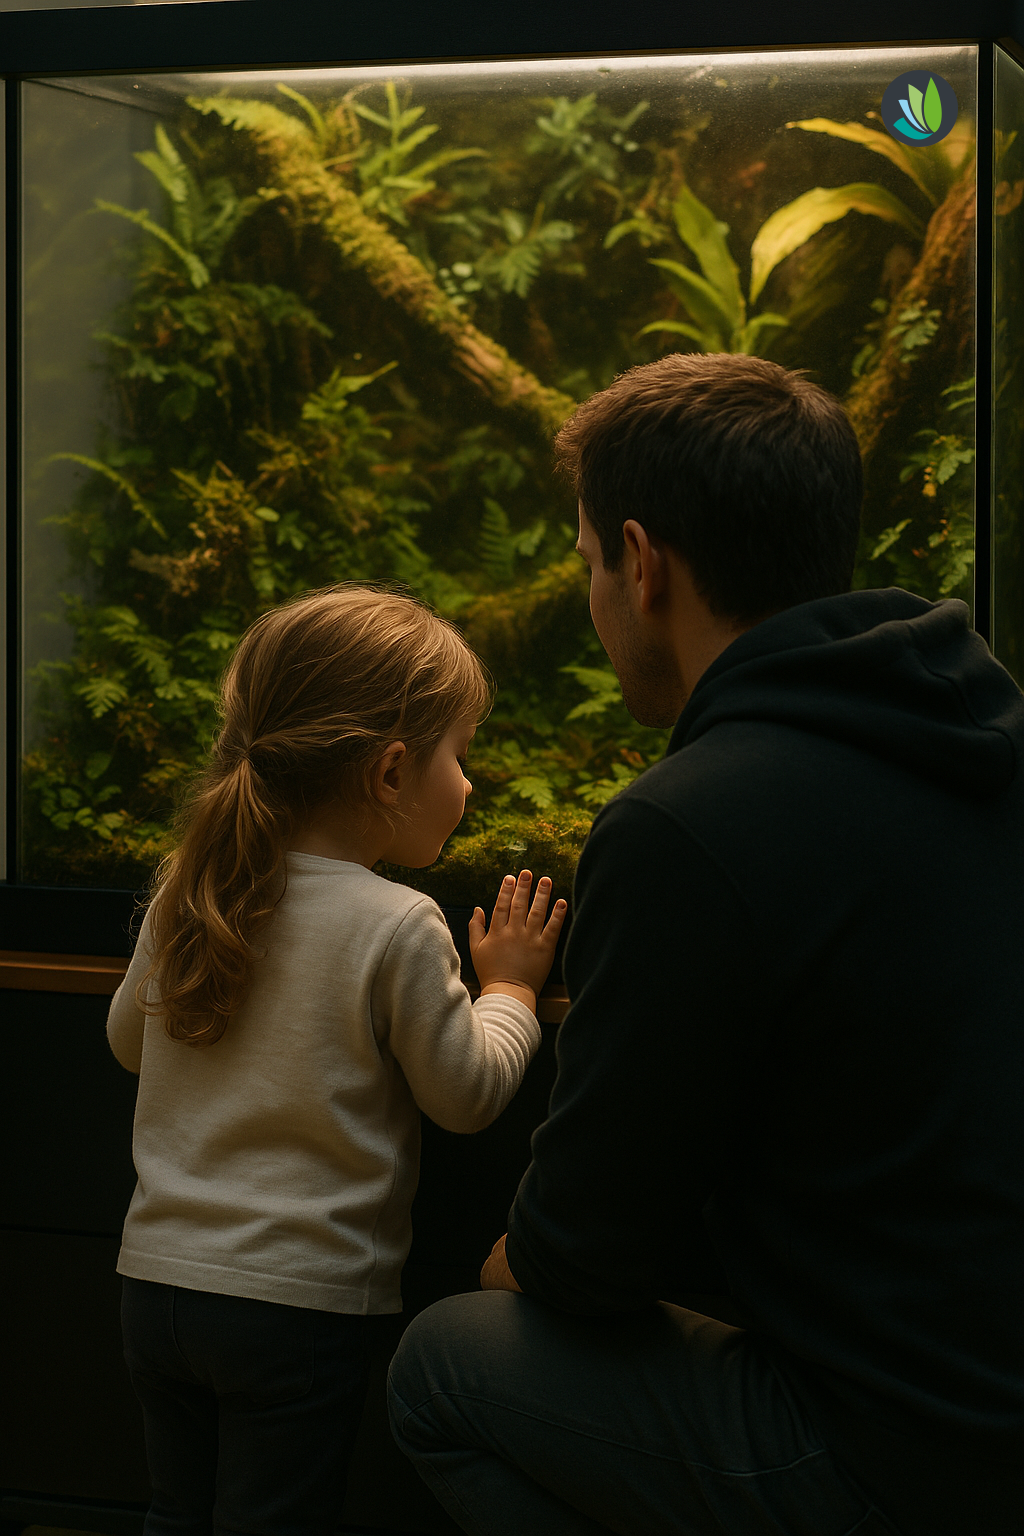
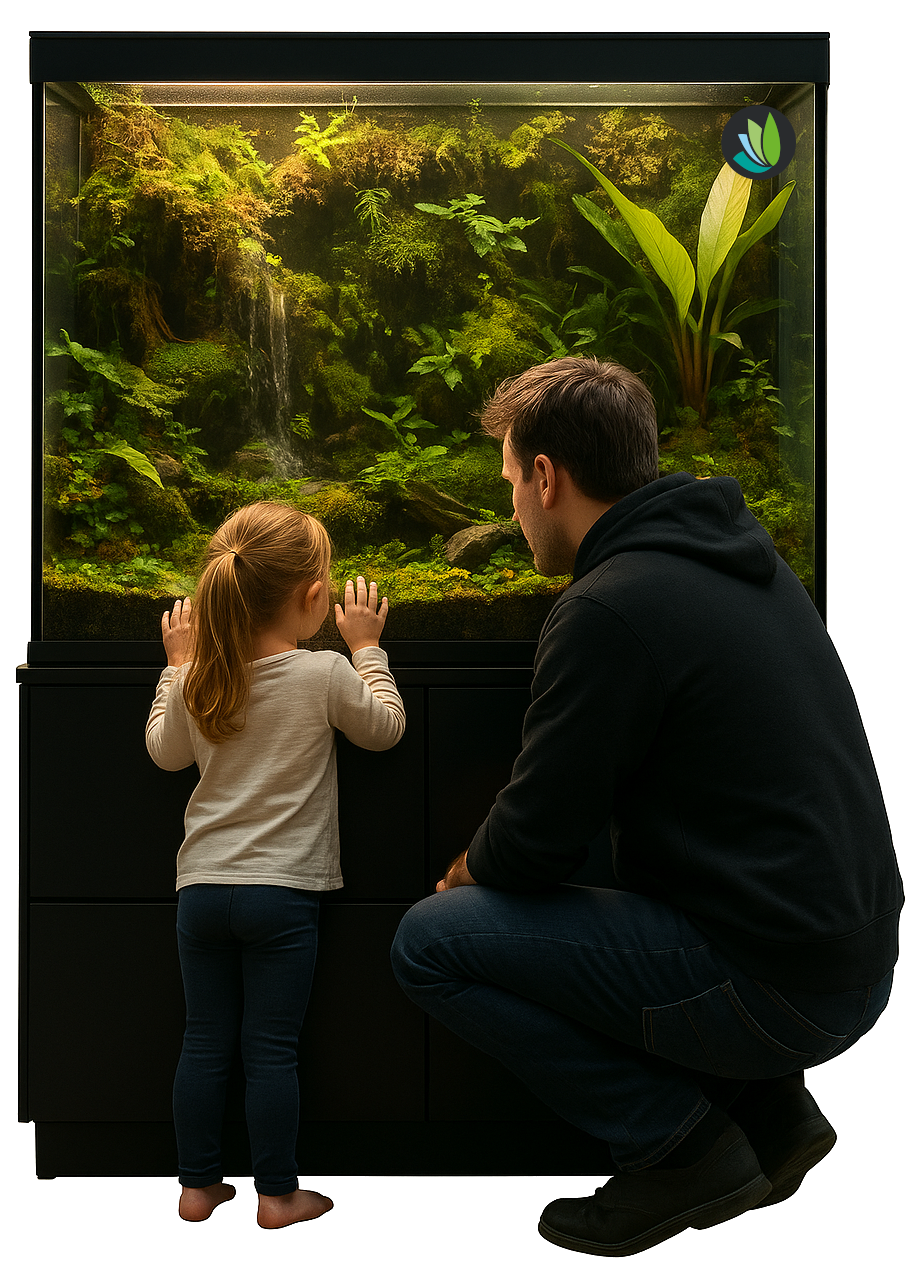
ReadMe: Easter egg

diff --git a/profile/README.md b/profile/README.md
@@ -1,6 +1,8 @@
 ![Edgeberry banner](https://raw.githubusercontent.com/Freya-Vivariums/.github/refs/heads/main/brand/Freya_banner.png)
 
-<img src="../documentation/Freya_vivarium.png" align="right" width="30%"/>
+<a href="https://www.youtube.com/watch?v=ab5jGg9vSNA" target="_blank" >
+<img src="../documentation/Freya_vivarium.png" align="right" width="32%"/>
+</a>
 
 A vivarium brings the tranquility and rythms of the natural world into your living space. It fosters a deep human connection to nature by introducing an authentic living presence into our modern life.
 
